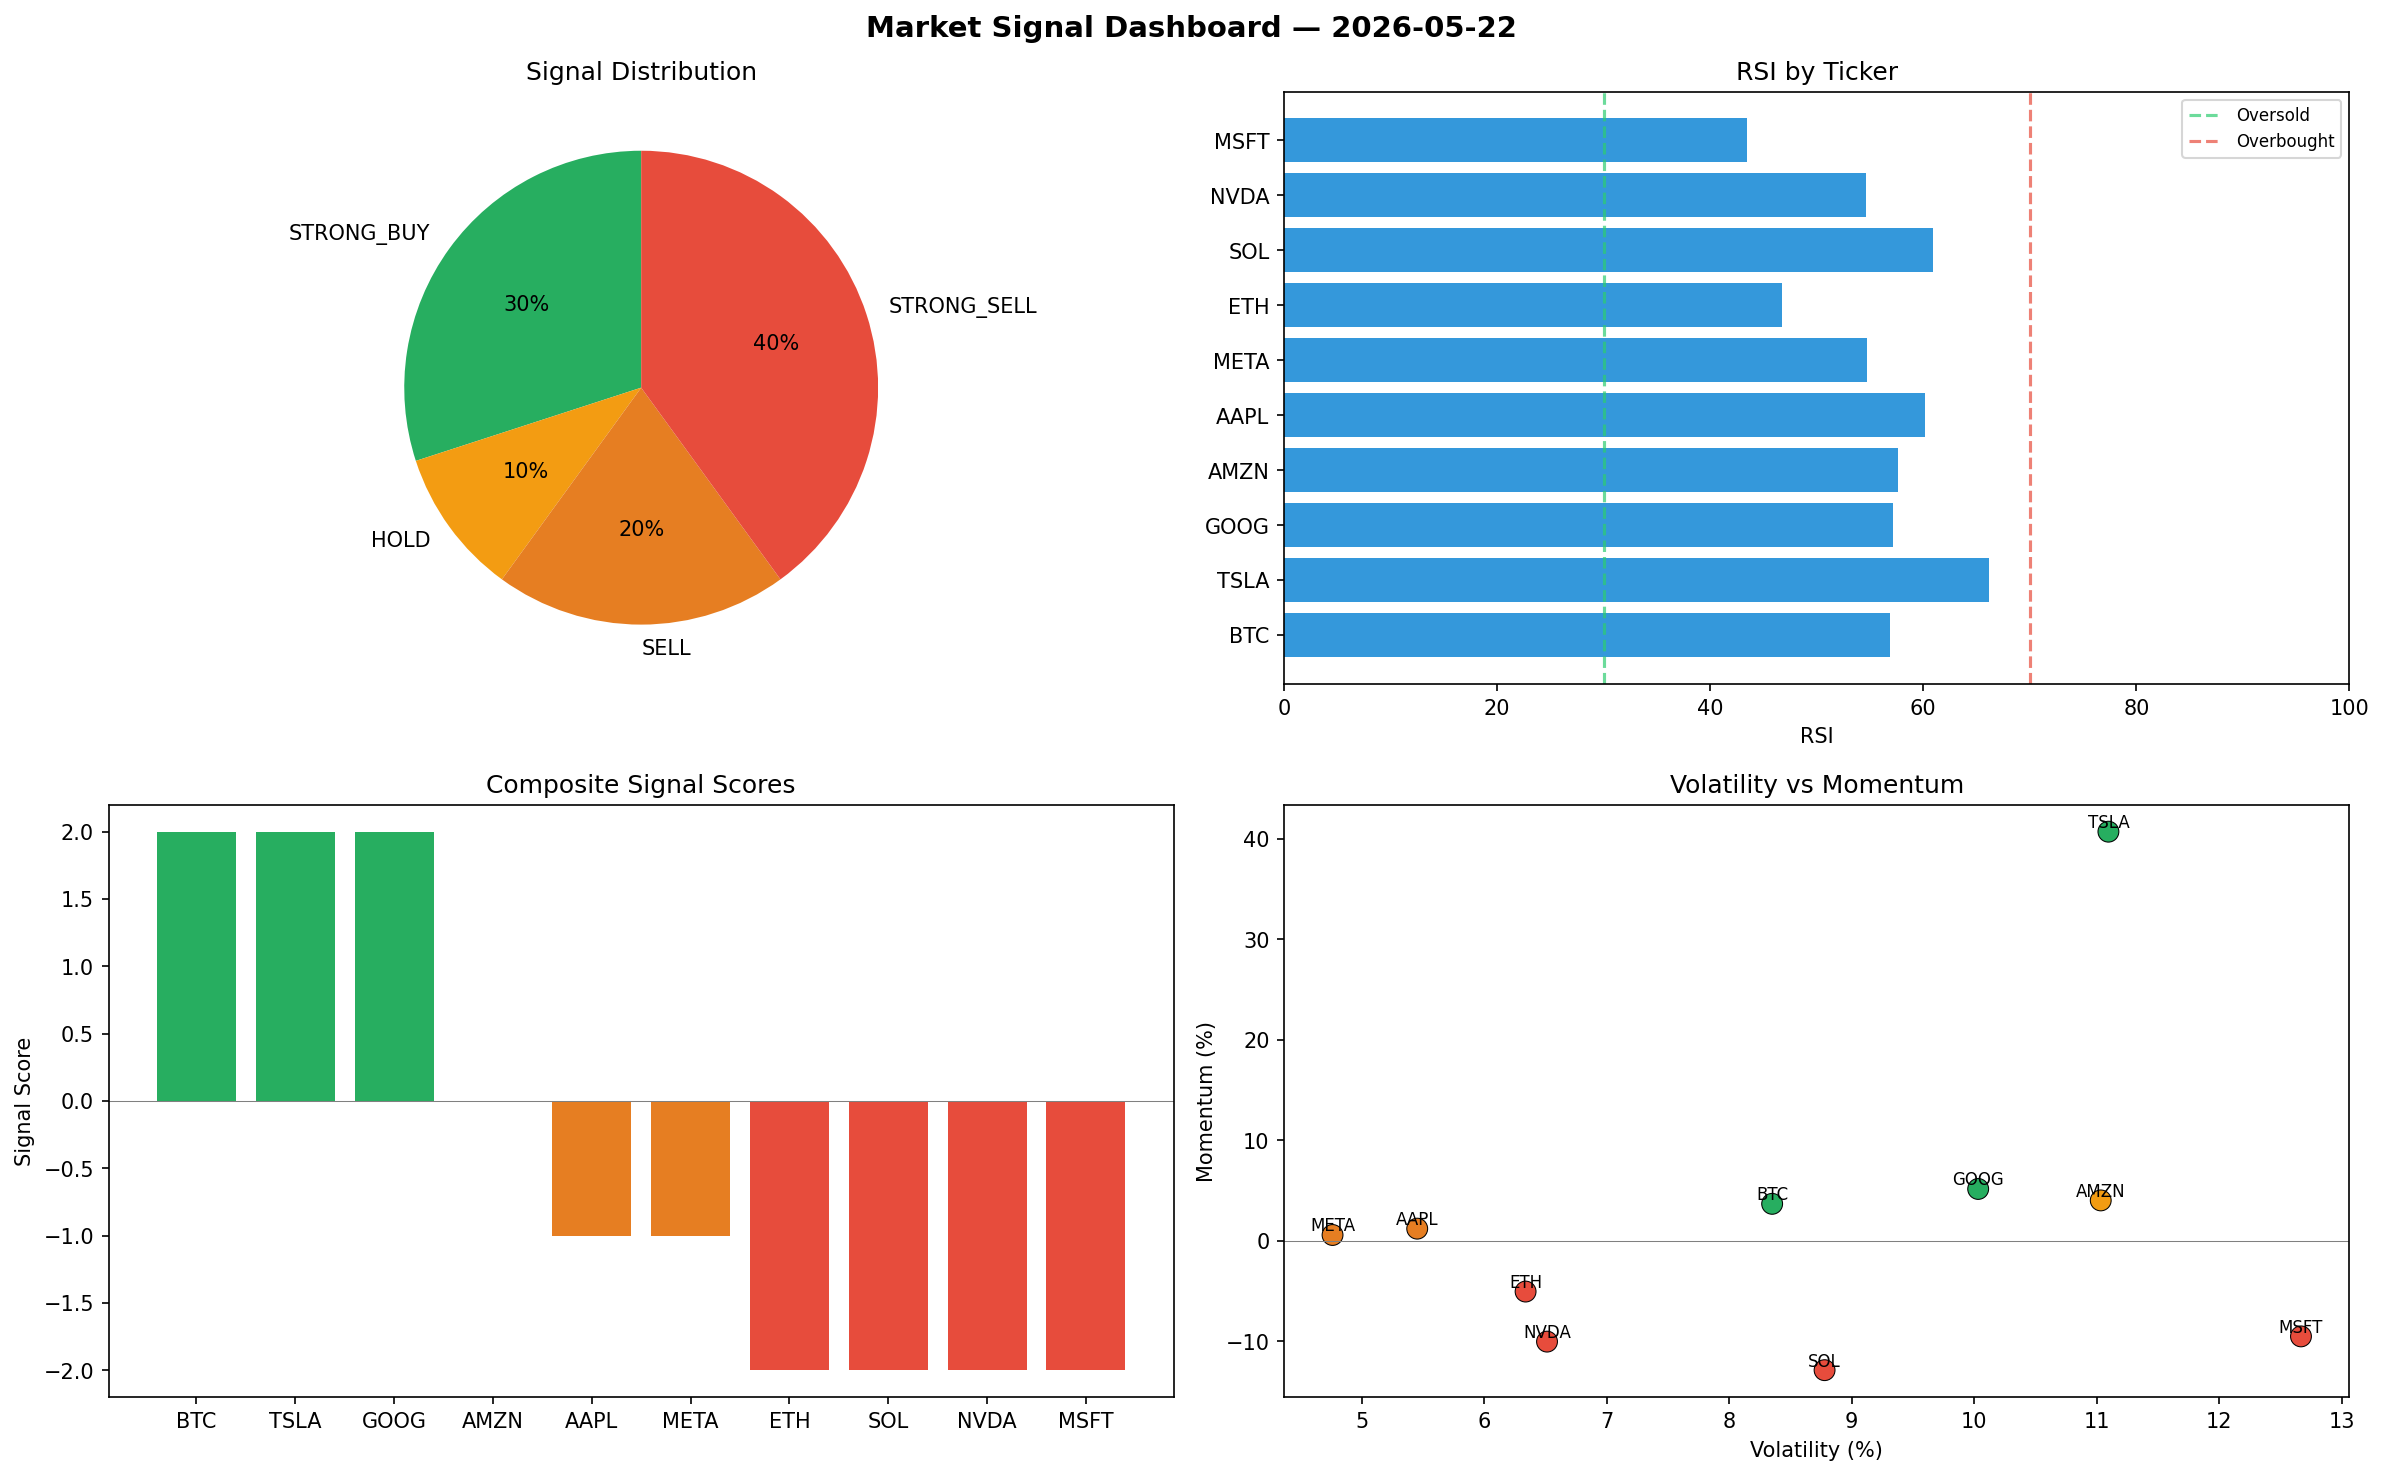
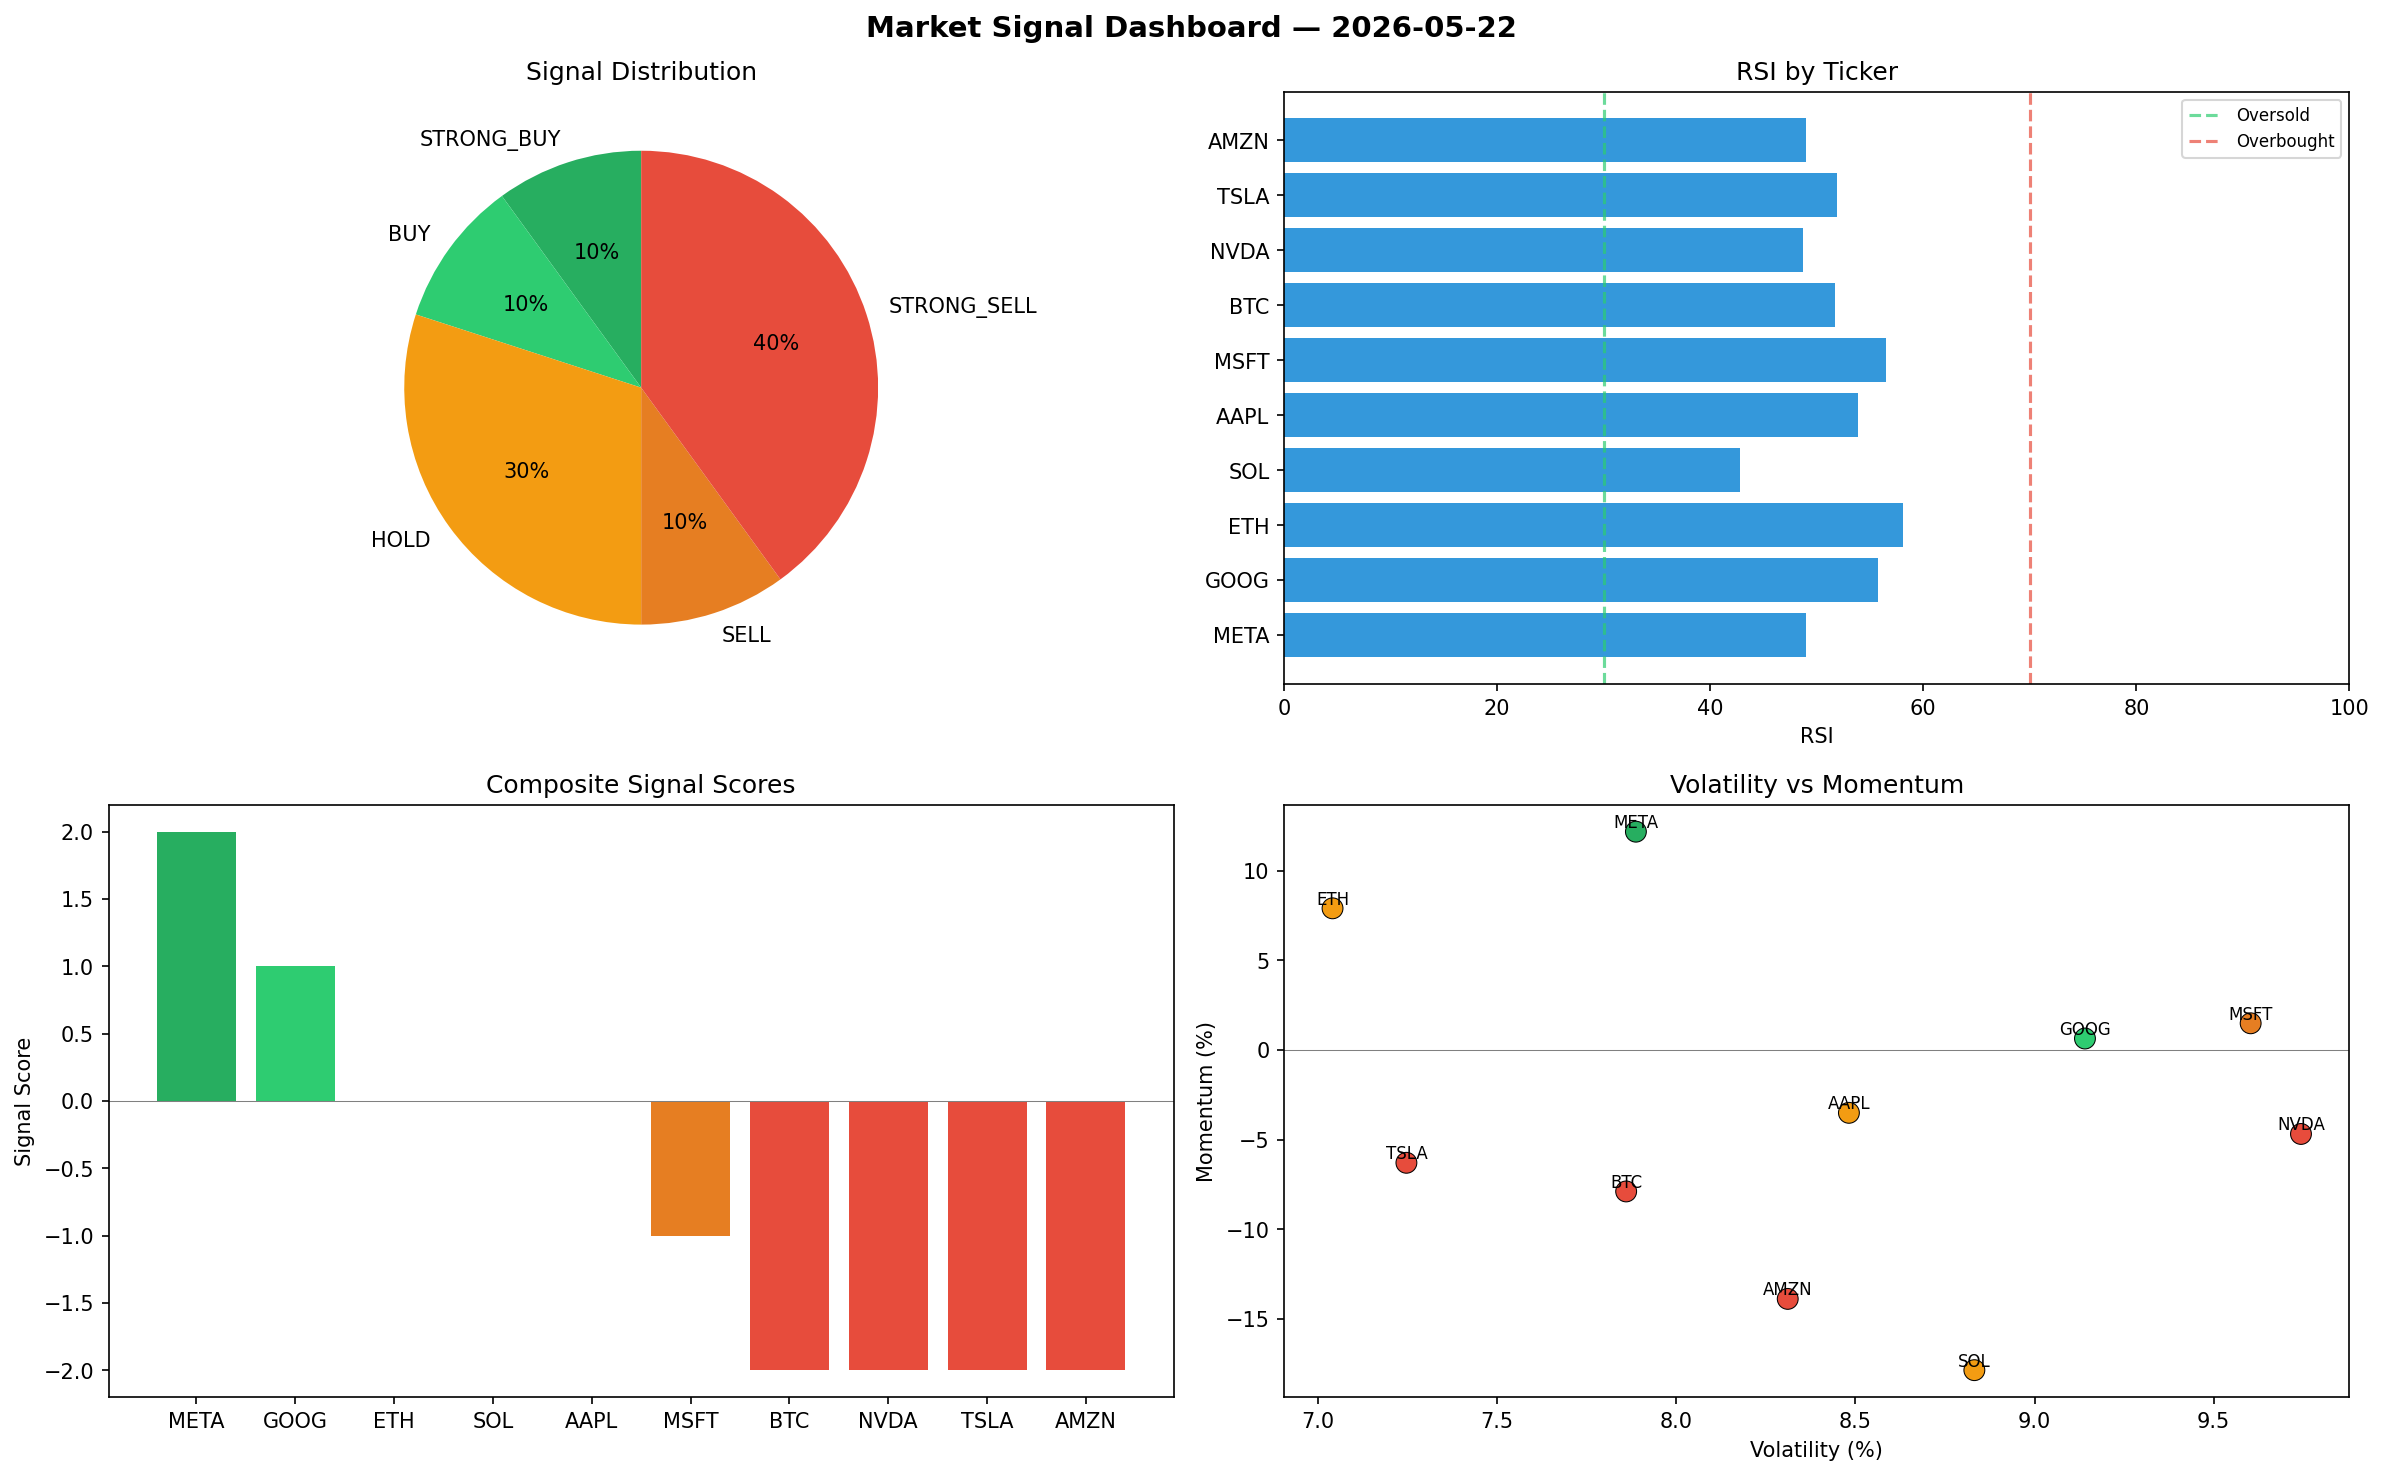
automated-bots: market signals 2026-05-22T11:22

diff --git a/logs/2026-05-22.md b/logs/2026-05-22.md
@@ -1,6 +1,6 @@
 # Market Signal Report — 2026-05-22
 
-**Run ID:** `1d66b5e857` | **Buy:** 3 | **Sell:** 6 | **Hold:** 1
+**Run ID:** `e086607ef1` | **Buy:** 2 | **Sell:** 5 | **Hold:** 3
 
 ![Dashboard](2026-05-22_dashboard.png)
 
@@ -8,28 +8,28 @@
 
 | Ticker | Price | Signal | Score | RSI | Momentum | Confidence |
 |--------|-------|--------|-------|-----|----------|------------|
-| BTC | $2792.18 | **STRONG_BUY** | 2 | 56.88 | 0.0367 | 0.5 |
-| TSLA | $5401.63 | **STRONG_BUY** | 2 | 66.21 | 0.407 | 0.5 |
-| GOOG | $2289.93 | **STRONG_BUY** | 2 | 57.12 | 0.0515 | 0.5 |
-| AMZN | $1218.59 | **HOLD** | 0 | 57.64 | 0.0401 | 0.0 |
-| AAPL | $2135.82 | **SELL** | -1 | 60.19 | 0.012 | 0.25 |
-| META | $3637.39 | **SELL** | -1 | 54.67 | 0.0057 | 0.25 |
-| ETH | $1092.71 | **STRONG_SELL** | -2 | 46.7 | -0.0506 | 0.5 |
-| SOL | $4252.34 | **STRONG_SELL** | -2 | 60.89 | -0.1288 | 0.5 |
-| NVDA | $1448.45 | **STRONG_SELL** | -2 | 54.61 | -0.1004 | 0.5 |
-| MSFT | $1752.71 | **STRONG_SELL** | -2 | 43.45 | -0.0952 | 0.5 |
+| META | $4731.73 | **STRONG_BUY** | 2 | 49.03 | 0.1219 | 0.5 |
+| GOOG | $1725.91 | **BUY** | 1 | 55.79 | 0.0064 | 0.25 |
+| ETH | $353.67 | **HOLD** | 0 | 58.05 | 0.0791 | 0.0 |
+| SOL | $3769.19 | **HOLD** | 0 | 42.84 | -0.1788 | 0.0 |
+| AAPL | $1631.73 | **HOLD** | 0 | 53.85 | -0.0351 | 0.0 |
+| MSFT | $2410.68 | **SELL** | -1 | 56.48 | 0.0149 | 0.25 |
+| BTC | $2352.36 | **STRONG_SELL** | -2 | 51.73 | -0.079 | 0.5 |
+| NVDA | $4325.62 | **STRONG_SELL** | -2 | 48.71 | -0.0469 | 0.5 |
+| TSLA | $461.69 | **STRONG_SELL** | -2 | 51.94 | -0.063 | 0.5 |
+| AMZN | $1489.36 | **STRONG_SELL** | -2 | 48.96 | -0.139 | 0.5 |
 
 ## Delta vs Yesterday
 
 | Ticker | Today | Yesterday | Price Change | Signal Changed |
 |--------|-------|-----------|-------------|----------------|
-| BTC | STRONG_BUY | STRONG_SELL | 📈 87.39% | ⚠ YES |
-| TSLA | STRONG_BUY | BUY | 📈 59.4% | ⚠ YES |
-| GOOG | STRONG_BUY | SELL | 📉 -44.92% | ⚠ YES |
-| AMZN | HOLD | BUY | 📉 -7.99% | ⚠ YES |
-| AAPL | SELL | STRONG_SELL | 📉 -9.57% | ⚠ YES |
-| META | SELL | HOLD | 📉 -19.09% | ⚠ YES |
-| ETH | STRONG_SELL | HOLD | 📉 -68.67% | ⚠ YES |
-| SOL | STRONG_SELL | BUY | 📈 37.57% | ⚠ YES |
-| NVDA | STRONG_SELL | HOLD | 📉 -34.86% | ⚠ YES |
-| MSFT | STRONG_SELL | STRONG_BUY | 📉 -40.06% | ⚠ YES |
+| META | STRONG_BUY | HOLD | 📈 5.26% | ⚠ YES |
+| GOOG | BUY | SELL | 📉 -58.48% | ⚠ YES |
+| ETH | HOLD | HOLD | 📉 -89.86% | — |
+| SOL | HOLD | BUY | 📈 21.94% | ⚠ YES |
+| AAPL | HOLD | STRONG_SELL | 📉 -30.91% | ⚠ YES |
+| MSFT | SELL | STRONG_BUY | 📉 -17.56% | ⚠ YES |
+| BTC | STRONG_SELL | STRONG_SELL | 📈 57.87% | — |
+| NVDA | STRONG_SELL | HOLD | 📈 94.53% | ⚠ YES |
+| TSLA | STRONG_SELL | BUY | 📉 -86.38% | ⚠ YES |
+| AMZN | STRONG_SELL | BUY | 📈 12.46% | ⚠ YES |
